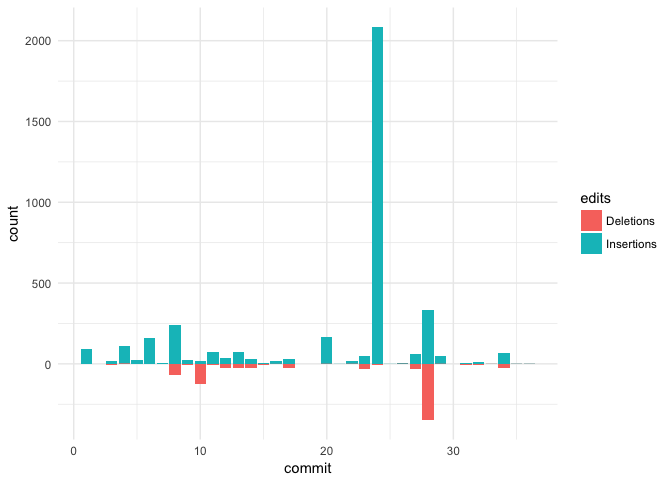
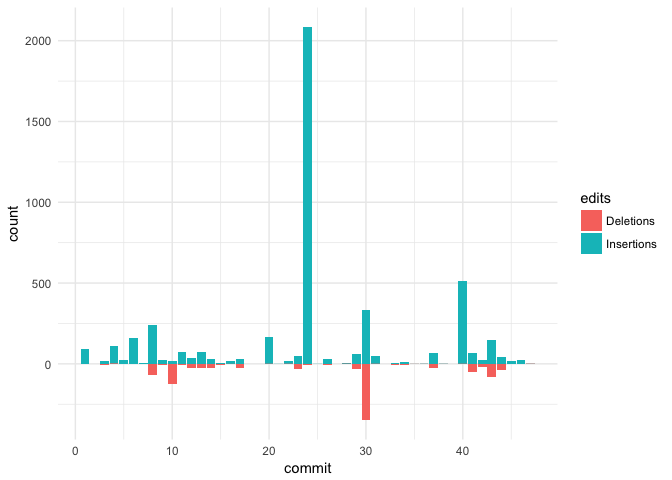
add appveyor plus update plots

diff --git a/README.md b/README.md
@@ -2,7 +2,7 @@
 <!-- README.md is generated from README.Rmd. Please edit that file -->
 *Package is work in progress!*
 
-[![Project Status: WIP ? Initial development is in progress, but there has not yet been a stable, usable release suitable for the public.](http://www.repostatus.org/badges/latest/wip.svg)](http://www.repostatus.org/#wip) [![Build Status](https://travis-ci.org/lorenzwalthert/gitsum.svg?branch=master)](https://travis-ci.org/lorenzwalthert/gitsum) [![codecov](https://codecov.io/gh/lorenzwalthert/gitsum/branch/master/graph/badge.svg)](https://codecov.io/gh/lorenzwalthert/gitsum)
+[![Project Status: WIP ? Initial development is in progress, but there has not yet been a stable, usable release suitable for the public.](http://www.repostatus.org/badges/latest/wip.svg)](http://www.repostatus.org/#wip) [![Build Status](https://travis-ci.org/lorenzwalthert/gitsum.svg?branch=master)](https://travis-ci.org/lorenzwalthert/gitsum) [![codecov](https://codecov.io/gh/lorenzwalthert/gitsum/branch/master/graph/badge.svg)](https://codecov.io/gh/lorenzwalthert/gitsum) [![AppVeyor Build Status](https://ci.appveyor.com/api/projects/status/github/lorenzwalthert/gitsum?branch=master&svg=true)](https://ci.appveyor.com/project/lorenzwalthert/gitsum)
 
 Introduction
 ============
@@ -26,7 +26,7 @@ tbl <- git_log_detailed() %>%
   arrange(date) %>%
   select(short_hash, short_message, total_files_changed, nested)
 tbl 
-#> # A tibble: 36 x 4
+#> # A tibble: 47 x 4
 #>    short_hash        short_message total_files_changed            nested
 #>         <chr>                <chr>               <int>            <list>
 #>  1       243f       initial commit                   7  <tibble [7 x 4]>
@@ -39,7 +39,7 @@ tbl
 #>  8       943c        add helpfiles                  10 <tibble [10 x 4]>
 #>  9       917e update infrastructur                   3  <tibble [3 x 4]>
 #> 10       4fc0       remove garbage                   6  <tibble [6 x 4]>
-#> # ... with 26 more rows
+#> # ... with 37 more rows
 ```
 
 ``` r
@@ -68,9 +68,9 @@ group_by(author_name) %>%
 #> # Groups:   author_name [3]
 #>       author_name     n
 #>             <chr> <int>
-#> 1      Jon Calder     1
-#> 2      jonmcalder     4
-#> 3 Lorenz Walthert    31
+#> 1      Jon Calder     2
+#> 2      jonmcalder     6
+#> 3 Lorenz Walthert    39
 ```
 
 Next, we want to see which files were contained in most commits:
@@ -78,7 +78,8 @@ Next, we want to see which files were contained in most commits:
 ``` r
 log %>%
   unnest(nested) %>% # unnest the tibble
-  mutate(changed_file = fct_infreq(changed_file)) %>%
+  mutate(changed_file = fct_lump(fct_infreq(changed_file), n = 10)) %>%
+  filter(changed_file != "Other") %>%
   ggplot(aes(x = changed_file)) + geom_bar() + coord_flip() + 
   theme_minimal()
 ```
@@ -91,12 +92,12 @@ We can also easily get a visual overview of the number of insertions & deletions
 commit.dat <- data.frame(
     edits = rep(c("Insertions", "Deletions"), each = nrow(log)),
     commit = rep(1:nrow(log), 2),
-    count = c(rev(log$total_insertions), -rev(log$total_deletions)))
+    count = c(log$total_insertions, -log$total_deletions))
     
 ggplot(commit.dat, aes(x = commit, y = count, fill = edits)) + 
-  geom_bar(stat = "identity", position = "identity") +
+  geom_bar(stat = "identity", position = "identity") +  
   theme_minimal()
-#> Warning: Removed 12 rows containing missing values (geom_bar).
+#> Warning: Removed 18 rows containing missing values (geom_bar).
 ```
 
 ![](README-ggplot2-1.png)
